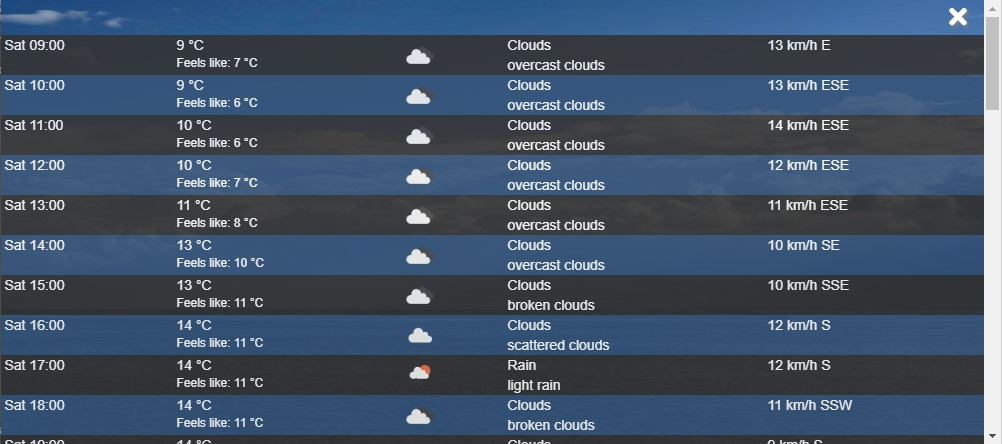
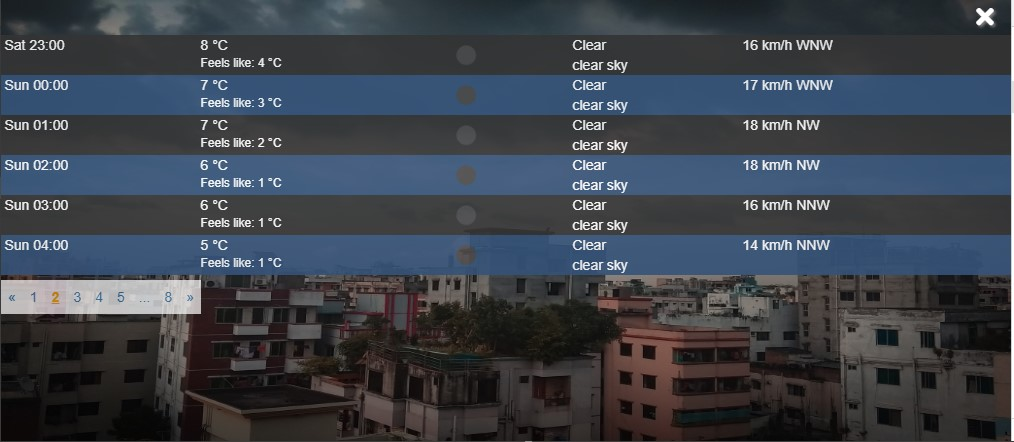
cleaned up pagination and added text effect

diff --git a/electron/styles/weather.css b/electron/styles/weather.css
@@ -366,7 +366,25 @@ li {
   float: left;
   padding: 0.5em;
   background-color: white;
-  border-color: lightskyblue;
   color: black;
   list-style: none;
+  opacity: 70%;
+}
+
+
+.active>a {
+  font-weight: bold;
+  text-decoration: underline;
+  color: orange;
+  animation: glow 0.2s ease-in-out infinite alternate;
+}
+
+@keyframes glow {
+  from {
+    text-shadow: 0 0 10px #fff, 0 0 20px #fff, 0 0 30px #e60073, 0 0 40px #e60073, 0 0 50px #e60073, 0 0 60px #e60073, 0 0 70px #e60073;
+  }
+
+  to {
+    text-shadow: 0 0 20px #fff, 0 0 30px #ff4da6, 0 0 40px #ff4da6, 0 0 50px #ff4da6, 0 0 60px #ff4da6, 0 0 70px #ff4da6, 0 0 80px #ff4da6;
+  }
 }

diff --git a/electron/scripts/hourly.js b/electron/scripts/hourly.js
@@ -42,7 +42,8 @@ function liveLoadBackgroundImage(fileName) {
 
 /**
  * Fetches from API and then spawns rows to populate the table
- * of hourly forecast data
+ * of hourly forecast data. Using PaginationJS to handle page
+ * scrolling.
  */
 async function updateHourlyForecast(maxHrs = 48) {
   if (!numberInRange(maxHrs, 48, 12)) maxHrs = 48;
